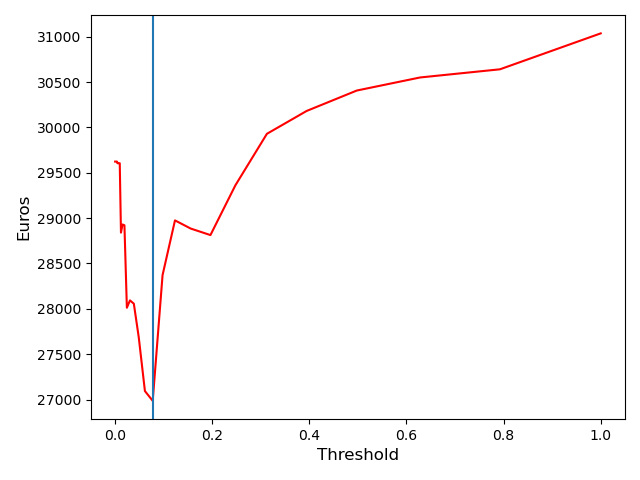
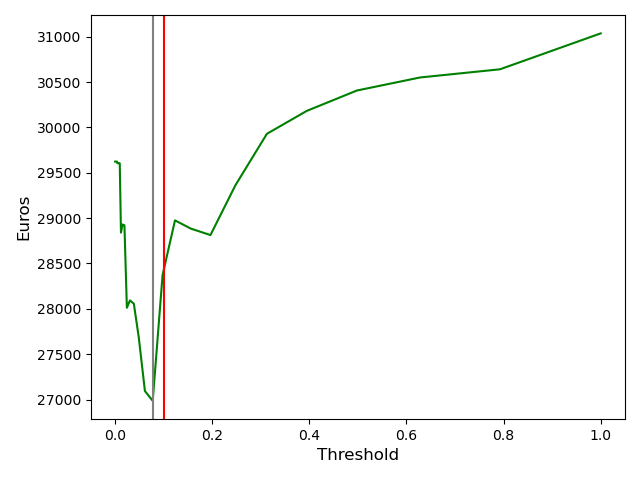
global var

diff --git a/templates/admin.html b/templates/admin.html
@@ -67,7 +67,7 @@ Administrator
 
       <h2>Threshold optimization plot</h2>
       <div>The following plot helps to determine the optimal risk acceptance threshold. 
-        The minimum threshold is located at <b>{{'%0.2f'|format(min_threshold['Threshold']|float)}}</b>.</div>
+        The optimal threshold value, for the minimum cost is located at <b>{{'%0.2f'|format(min_threshold['Threshold']|float)}}</b> (<i>grey</i> color).</div>
       <img src={{plot_threshold}} alt="Chart">
 
       <br />

diff --git a/app.py b/app.py
@@ -113,6 +113,8 @@ class Bank(UserMixin, db.Model):
     prob_default = db.Column(db.Float,default=0.5)
     interest_rate = db.Column(db.Float,default=7.5)
 
+bank = Bank.query.filter_by(id=1).first() #Loading the first line of Bank dataset to be the bank object.
+
 # SQLAlchemy ORM class for users
 class User(UserMixin, db.Model):
     id = db.Column(db.Integer, primary_key=True)
@@ -226,12 +228,10 @@ def load_user(user_id):
     
 @app.route('/')
 def index():
-    bank = Bank.query.filter_by(id=1).first() #Loading the first line of Bank dataset to be the bank object.
     return render_template('index.html', bank_name=bank.name)
 
 @app.route('/login', methods=['GET', 'POST'])
 def login():
-    bank = Bank.query.filter_by(id=1).first() #Loading the first line of Bank dataset to be the bank object.
     form = LoginForm()
     message=''
     if form.validate_on_submit():
@@ -247,7 +247,6 @@ def login():
 
 @app.route('/signup', methods=['GET', 'POST'])
 def signup():
-    bank = Bank.query.filter_by(id=1).first() #Loading the first line of Bank dataset to be the bank object.
     form = RegisterForm()
     message=''
     if form.validate_on_submit():
@@ -263,7 +262,6 @@ def signup():
 @app.route('/loan', methods=['GET', 'POST'])
 @login_required
 def loan():
-    bank = Bank.query.filter_by(id=1).first() #Loading the first line of Bank dataset to be the bank object.
     form = LoanForm()
     message = ''
     if request.method == 'POST':
@@ -321,7 +319,7 @@ def loan():
                 message = ''                    
             # order_history = Loan.query.filter_by(username=current_user.username)
             # The `order_history` includes the `Company` information, including the company name
-            order_history = db.session.query(Loan, Company).join(Company, Loan.nif == Company.nif).all()
+            order_history = db.session.query(Loan, Company).join(Company, Loan.nif == Company.nif).filter_by(username=current_user.username)
 
             return render_template('company.html', form=form, \
                                    rows=order_history, \
@@ -341,7 +339,7 @@ def loan():
                 pass
     # RETRIEVING HISTORICAL DATA FOR ORDERS
     # order_history = Loan.query.filter_by(username=current_user.username)
-    order_history = db.session.query(Loan, Company).join(Company, Loan.nif == Company.nif).all()
+    order_history = db.session.query(Loan, Company).join(Company, Loan.nif == Company.nif).filter_by(username=current_user.username)
     return render_template('loan.html', form=form, \
                            rows=order_history, \
                            message=message, \
@@ -352,7 +350,6 @@ def loan():
 @app.route('/currents')
 @login_required
 def currents():
-    bank = Bank.query.filter_by(id=1).first() #Loading the first line of Bank dataset to be the bank object.
     # The following, lists all the `Loans`, only for the current user
     # order_history = Loan.query.filter_by(username=current_user.username)
     # The following, lists all the `Loans`, without any filter 
@@ -373,7 +370,6 @@ scaler_concat = load('./database/scaler_concat.joblib')
 @app.route('/company', methods=['GET', 'POST'])
 @login_required
 def company(): 
-    bank = Bank.query.filter_by(id=1).first() #Loading the first line of Bank dataset to be the bank object.
     form = CompanyForm()
     message = ''
     automated_decision = 'rejected'
@@ -499,7 +495,7 @@ def company():
     if automated_decision == 'rejected':
         message = 'Sorry, your loan has been rejected for Risks.'
         # order_history = Loan.query.filter_by(username=current_user.username)
-        order_history = db.session.query(Loan, Company).join(Company, Loan.nif == Company.nif).all()
+        order_history = db.session.query(Loan, Company).join(Company, Loan.nif == Company.nif).filter_by(username=current_user.username)
         order.status = 'rejected'
         return render_template('company.html', form=form, \
                                rows=order_history , \
@@ -518,7 +514,7 @@ def company():
         db.session.commit()            
 
         # order_history = Loan.query.filter_by(username=current_user.username)   
-        order_history = db.session.query(Loan, Company).join(Company, Loan.nif == Company.nif).all()
+        order_history = db.session.query(Loan, Company).join(Company, Loan.nif == Company.nif).filter_by(username=current_user.username)
         return render_template('company.html', form=form, \
                                rows=order_history , \
                                message=message, \
@@ -537,8 +533,6 @@ def logout():
 @app.route('/balance_plot')
 @login_required
 def balance_plot():
-    bank = Bank.query.filter_by(id=1).first() #Loading the first line of Bank dataset to be the bank object.
-
     cnx = sqlite3.connect(CONNECTION_STRING)   
     # df_bank = pd.read_sql_query("SELECT * FROM bank;", cnx)
     df_loans = pd.read_sql_query("SELECT * FROM loan WHERE status='acepted';", cnx)
@@ -597,11 +591,14 @@ y_values = load('./database/y_values.joblib')
 @app.route('/admin', methods=['GET', 'POST'])
 def admin():
     form = BankForm()
-    bank = Bank.query.filter_by(id=1).first() #Loading the first line of Bank dataset to be the bank object.
 
     if form.validate_on_submit():
         Bank.query.filter_by(id=1).update({'name': form.name.data, 'bank_total_assets': form.bank_total_assets.data, 'prob_default': form.prob_default.data, 'interest_rate': form.interest_rate.data})
         db.session.commit()
+
+        # Modify the global variable
+        global bank
+        bank = Bank.query.filter_by(id=1).first() #Loading the first line of Bank dataset to be the bank object.
 
         form = BankForm(name = form.name.data, \
                         bank_total_assets = form.bank_total_assets.data, \
@@ -616,13 +613,6 @@ def admin():
                         interest_rate = bank.interest_rate)    
         message=''
 
-    # ROC
-    skplt.metrics.plot_roc(y_values['y'], y_values['y_pred_proba'])
-    plt.axvline(x=bank.prob_default)
-    if os.path.isfile(PLOT_PATH_ROC):
-        os.remove(PLOT_PATH_ROC)
-    plt.savefig(PLOT_PATH_ROC)
-
     # Threshold definition
     space_threshold = [10**x for x in np.linspace(-10,0,100)]
     df_space = pd.DataFrame({'Threshold': space_threshold,
@@ -630,15 +620,24 @@ def admin():
 
     min_threshold = df_space[df_space['Cost'] == min(df_space['Cost'])]
 
-    df_space.plot(x='Threshold', y='Cost', color='red', legend=False)
+    # Optimal value
+    df_space.plot(x='Threshold', y='Cost', color='green', legend=False)
     plt.xlabel('Threshold', fontsize=12)
     plt.ylabel('Euros', fontsize=12)
     plt.tight_layout()
-    plt.axvline(x=min_threshold['Threshold'].values[0])
+    plt.axvline(x=min_threshold['Threshold'].values[0], color='grey')
+    plt.axvline(x=bank.prob_default, color='red')
     if os.path.isfile(PLOT_PATH_THRESHOLD):
         os.remove(PLOT_PATH_THRESHOLD)
     plt.savefig(PLOT_PATH_THRESHOLD)
 
+    # ROC
+    skplt.metrics.plot_roc(y_values['y'], y_values['y_pred_proba'])
+    plt.axvline(x=min_threshold['Threshold'].values[0], color='grey')
+    plt.axvline(x=bank.prob_default, color='red')
+    if os.path.isfile(PLOT_PATH_ROC):
+        os.remove(PLOT_PATH_ROC)
+    plt.savefig(PLOT_PATH_ROC)
 
     return render_template('admin.html', form=form, message=message, bank=bank, bank_name=bank.name, name=current_user.username, plot_roc=PLOT_PATH_ROC, plot_threshold=PLOT_PATH_THRESHOLD, min_threshold=min_threshold)
 
